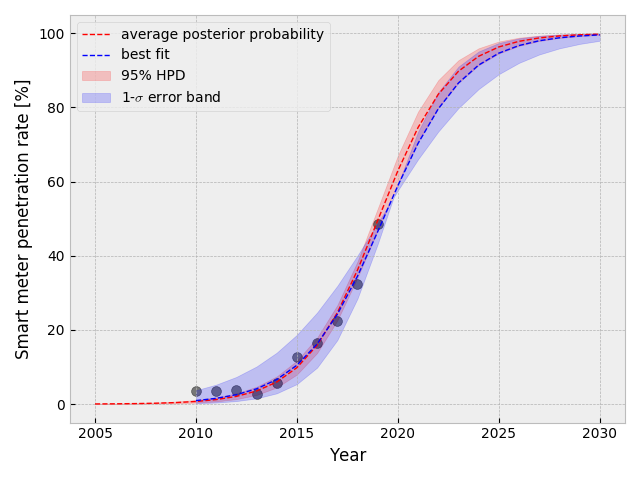
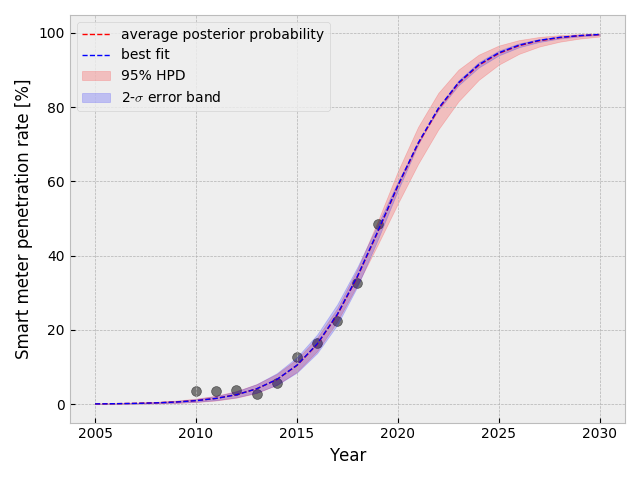
adding minos results

Changed region(s): [[0.1562, 0.0625, 0.9375, 0.8438], [0.1875, 0.1875, 0.2188, 0.2188], [0.0625, 0.0625, 0.0938, 0.0938]]

diff --git a/_posts/2019-03-31-NLD-Electricity-III.md b/_posts/2019-03-31-NLD-Electricity-III.md
@@ -95,22 +95,24 @@ pm.plots.plot_posterior(trace=trace["growth_rate"])
 ![NLD smart meter penetration growth rate Bays]({{ site.url }}/{{ site.baseurl }}/assets/img/posts/nld-smartmeter-friesland-rate.png)
 
 
-得られた結果を比較してみる. Bayesian の結果は、highest posterior density の 95%区間だが、Frequentist の結果は 1-$\sigma$ 区間 (68%).
+得られた結果を比較してみる. Bayesian の結果は、highest posterior density の 95%区間だが、Frequentist (SciPy fit) の結果は 1-$\sigma$ 区間 (68%). 比較の為、iminuit の minos error analysis の結果も比較する (2-$\sigma$ 区間).
 
 |                   | mean     |low      |high
 |------------------------------------------
-|midpoint    [Bays.]| 2019.038 |2018.823 |2019.247
-|growth rate [Bays.]| 0.551    |0.490    |0.614
 |midpoint    [Freq.]| 2019.282 |2019.136 |2019.427
 |growth rate [Freq.]| 0.501    |0.467    |0.534
+|midpoint    [Bays.]| 2019.306 |2019.043 |2019.607
+|growth rate [Bays.]| 0.501    |0.439    |0.565
+|midpoint    [minos]| 2019.282 |2019.140 |2019.431
+|growth rate [minos]| 0.501    |0.467    |0.536
 
-数字を見れば明らかだが先ほどの図と重ねて表示してみると、Bayesian の方が立ち上がりが早く、既にデータがある年のエラーバンドは狭く、将来のエラーバンドが広くなっている. Bayesian の方が直感に近い.
+数字を見れば明らかだが Bayesian と minos の結果を重ねて表示してみると、Bayesian の方が既にデータがある年のエラーバンドは狭く、将来のエラーバンドが広くなっている. Bayesian の方が直感に近いが、MCMC を使用しているので、試行毎に得られる結果にバラツキがある.
 ```python
 qs = scipy.stats.mstats.mquantiles(p_t, [0.025, 0.975], axis=0)
 plt.fill_between(t[:, 0], *qs, alpha=0.2, color="r")
 plt.plot(t, mean_prob_t, lw=1, ls="--", color="r", label="average posterior probability")
 plt.scatter(X, Y, color="k", s=50, alpha=0.5)
 ```
-![NLD smart meter penetration Bays./Freq.]({{ site.url }}/{{ site.baseurl }}/assets/img/posts/nld-smartmeter-freq-bays.png)
 
+![NLD smart meter penetration Bays./Freq.]({{ site.url }}/{{ site.baseurl }}/assets/img/posts/nld-smartmeter-freq-bays.png)
 以上、スマートメータの普及率を用いた統計分析を行った.
